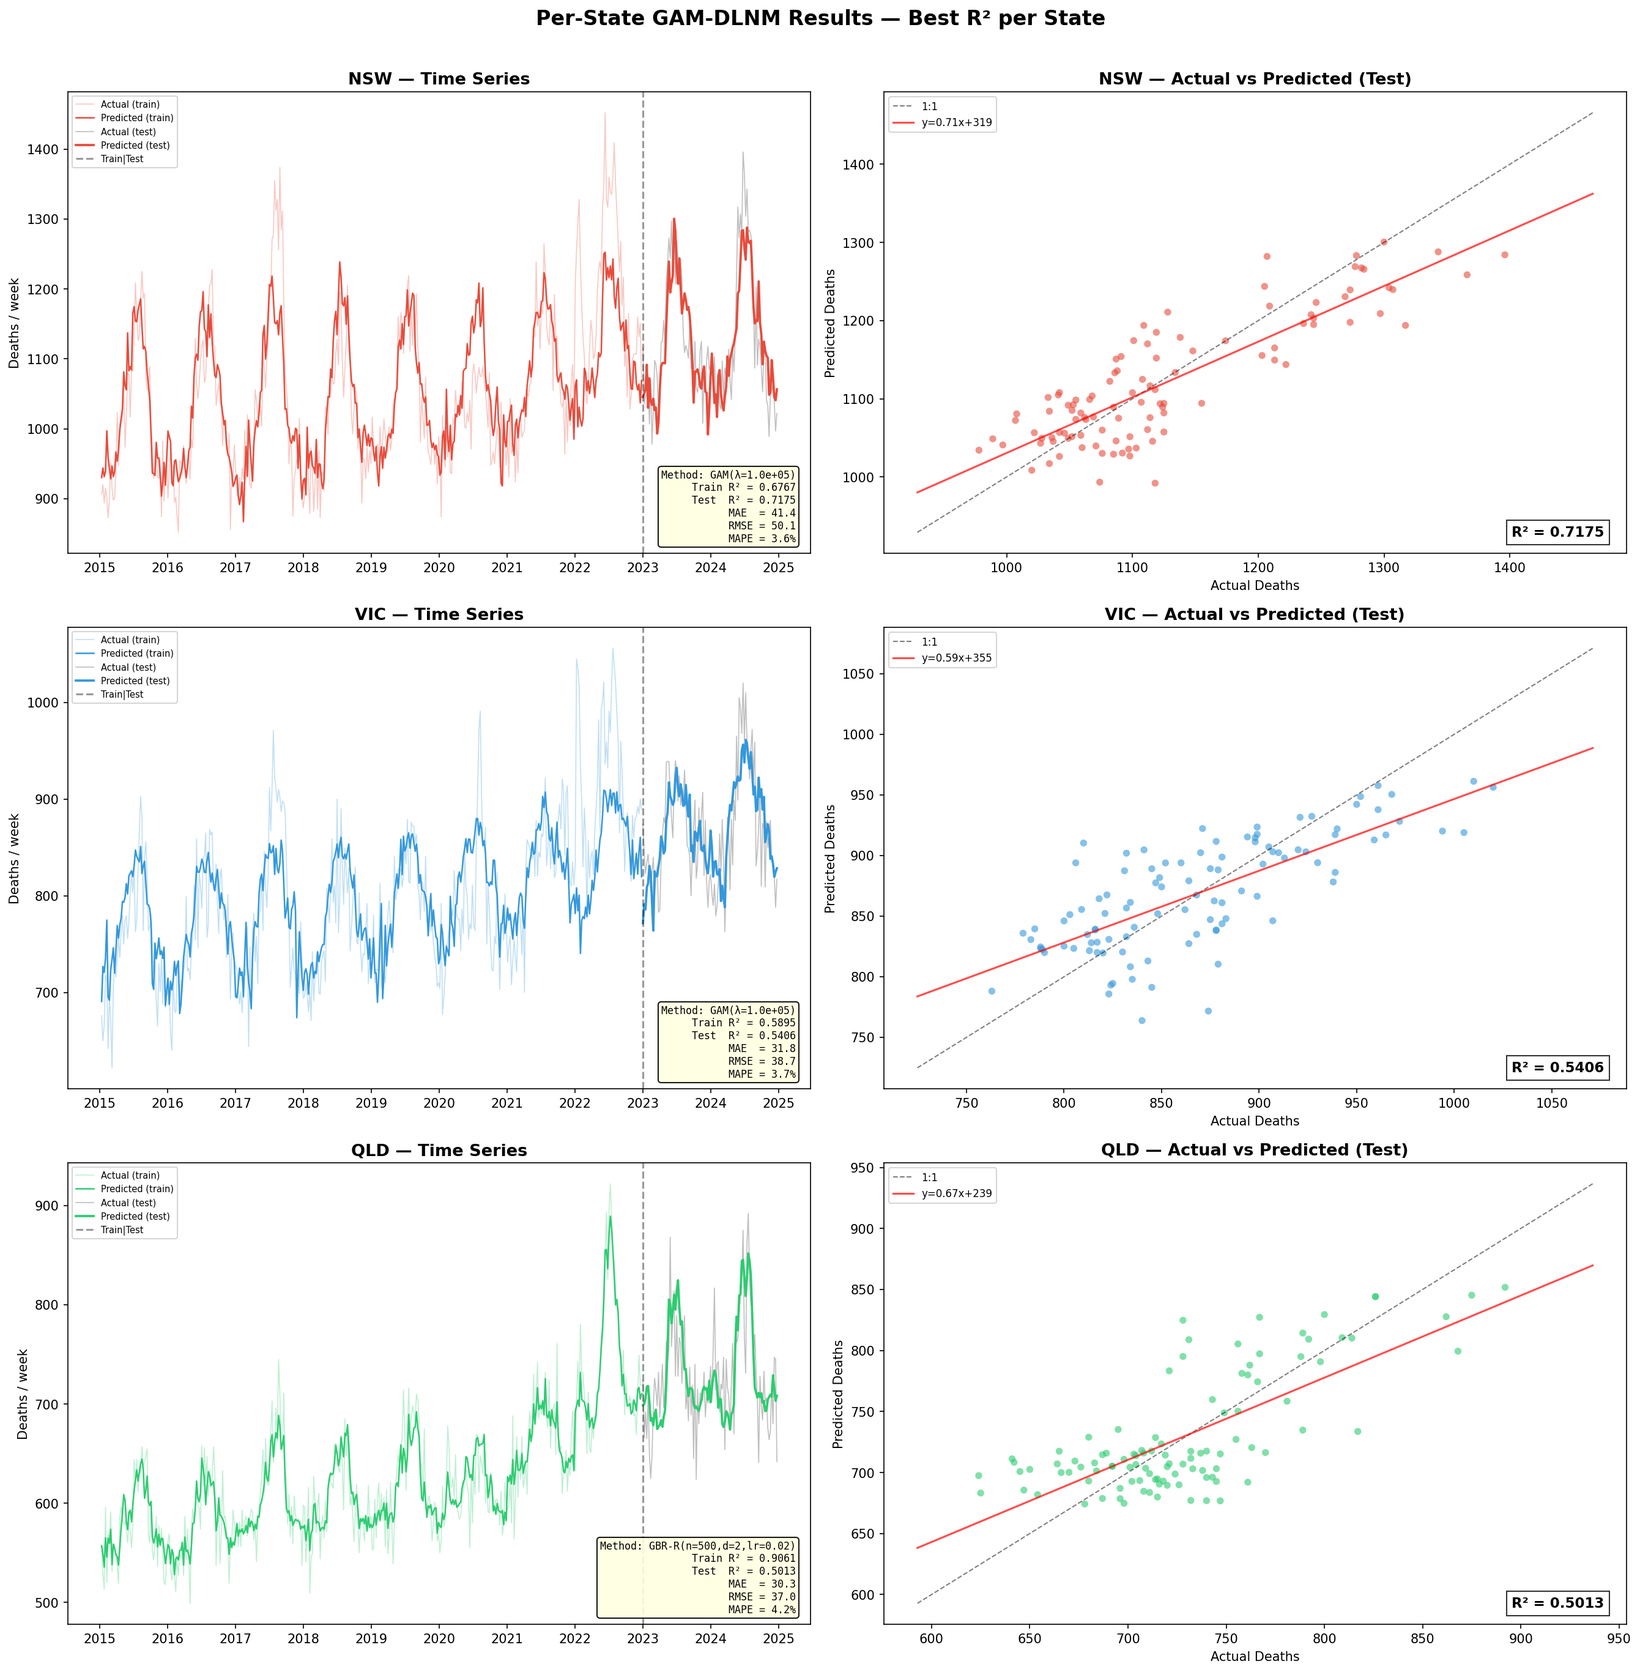
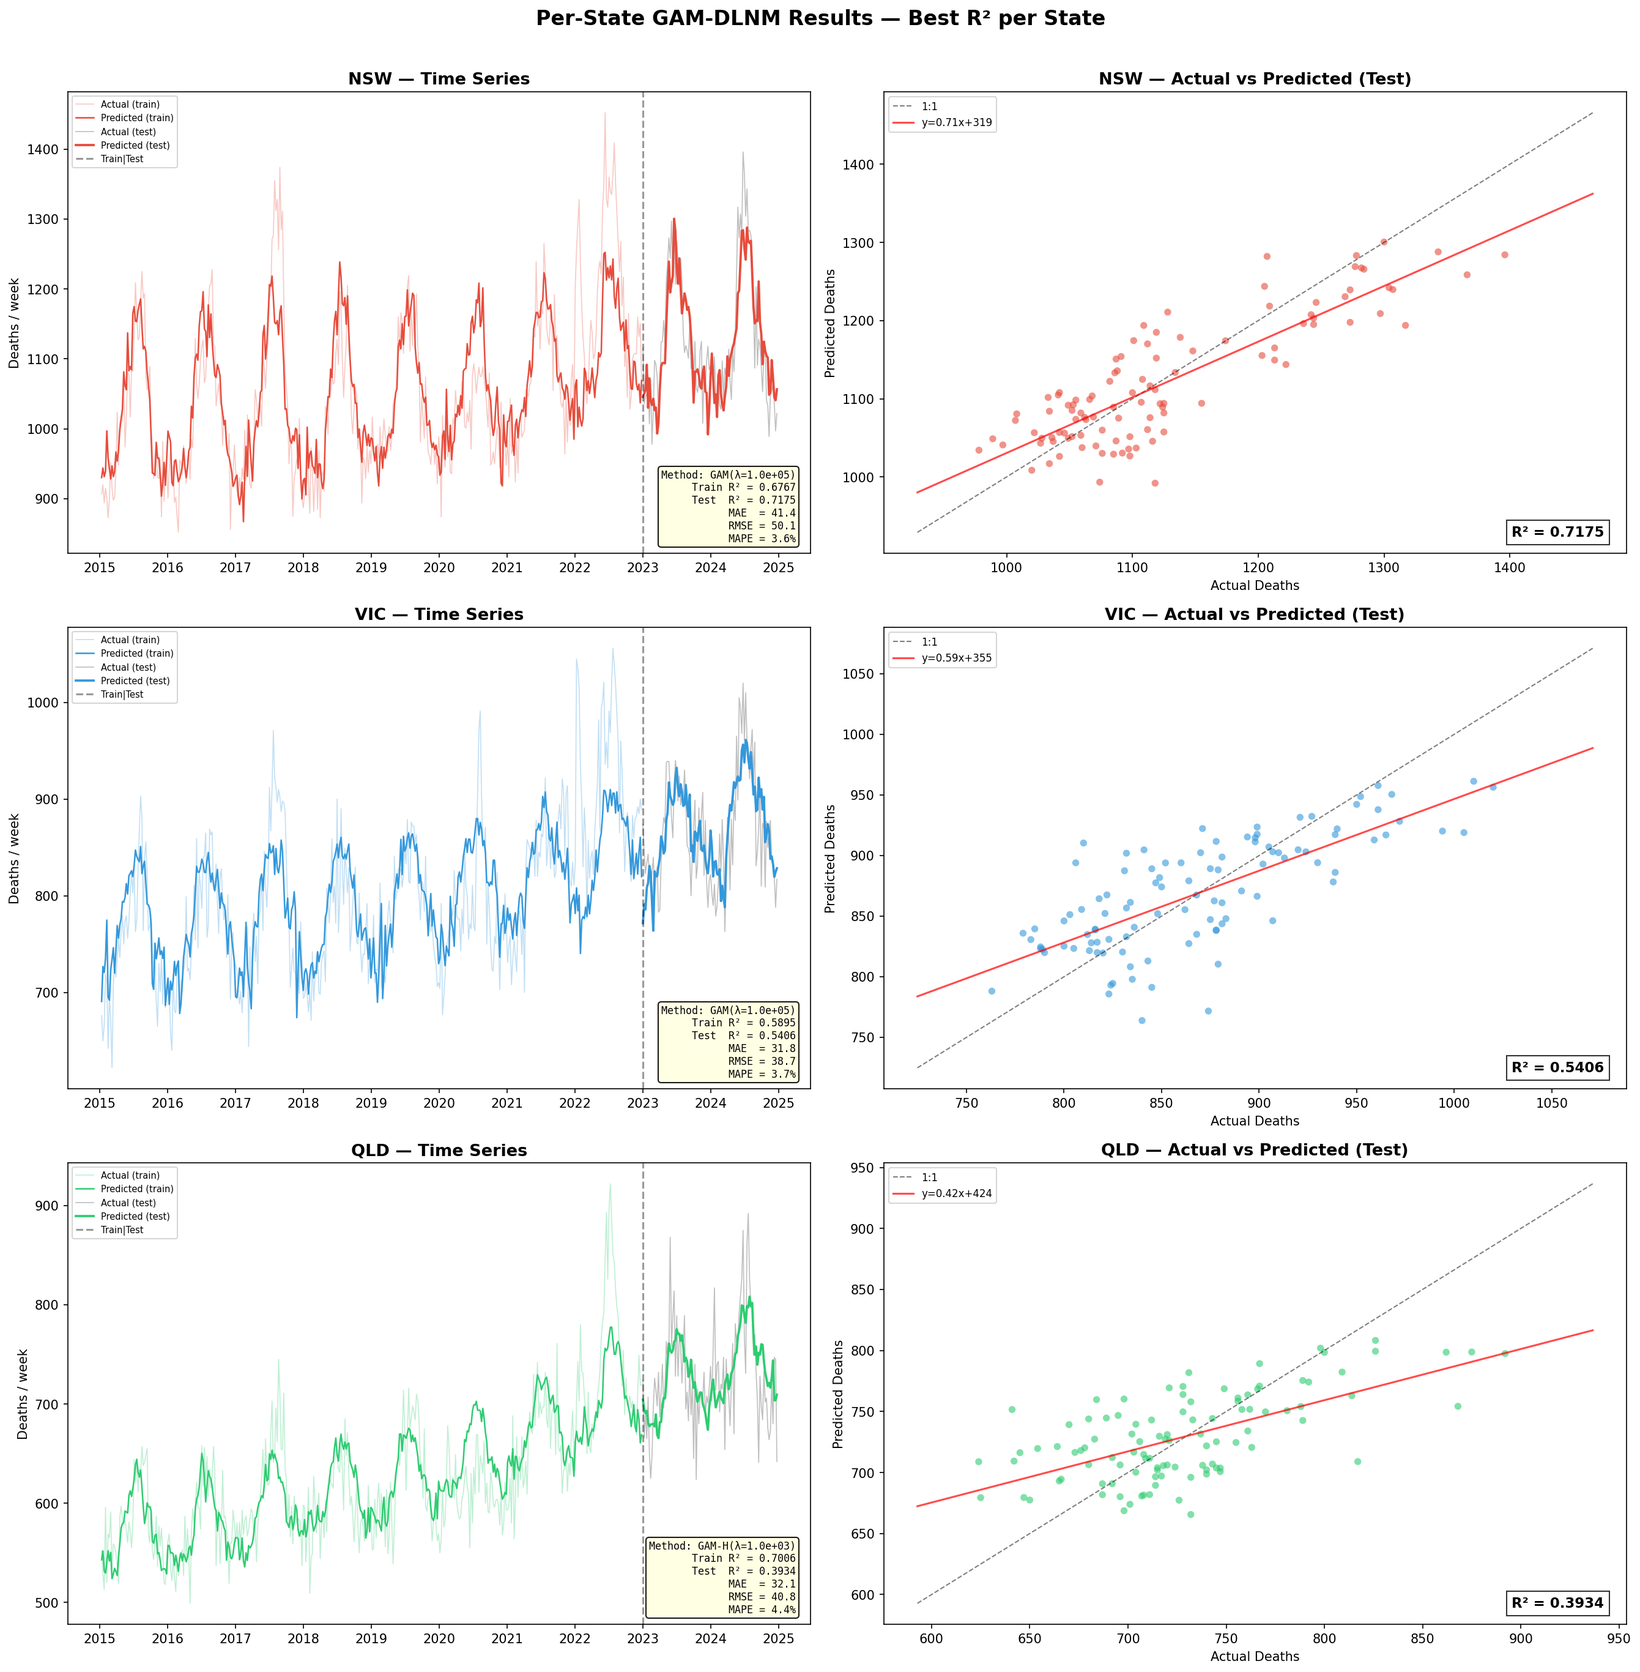
Enhance per-state plots & selection logic
Extended per-state visualization and diagnostics in hybrid_gam_dlnm_v3_perstate.py: increased figure size and layout, added Pearson/Spearman correlations, train+test scatter plotting, residual distribution stats (skew, kurtosis, median/max error), residuals-vs-predicted heteroscedasticity trend, Q‑Q plots, Durbin–Watson on residual ACF, formatted axis/labels, a per-state performance bar chart and a model summary table. Also updated temperature-mortality subplot styling and tightened layout; output image updated. In per_state_best_r2.py, forcing GAM selection for QLD (pick best GAM candidate or least-bad GAM) and annotated prints with a note; added overall aggregated train/test metrics (R², MAE, RMSE, MAPE) across all states. Updated corresponding PNG assets.

diff --git a/dataset/hybrid_gam_dlnm_v3_perstate.py b/dataset/hybrid_gam_dlnm_v3_perstate.py
@@ -262,72 +262,116 @@ for state in ['NSW', 'VIC', 'QLD']:
 # ============================================================
 print("\n--- Generating Per-State Plots ---")
 
-colors = {'NSW': '#e74c3c', 'VIC': '#3498db', 'QLD': '#2ecc71'}
-fig = plt.figure(figsize=(22, 28))
-fig.suptitle('Hybrid GAM-DLNM v3 — Per-State Models (Australia 2015–2024)',
-             fontsize=18, fontweight='bold', y=0.995)
+from scipy.stats import pearsonr, spearmanr
 
+colors = {'NSW': '#e74c3c', 'VIC': '#3498db', 'QLD': '#2ecc71'}
+fig = plt.figure(figsize=(24, 42))
+fig.suptitle('Hybrid GAM-DLNM v3 — Per-State Models (Australia 2015–2024)',
+             fontsize=20, fontweight='bold', y=0.998)
+
+# ── Row 1: Time-series per state ──
 for idx, state in enumerate(['NSW', 'VIC', 'QLD']):
     r = results[state]
-
-    # ── Row: Time-series ──
-    ax_ts = fig.add_subplot(5, 3, idx + 1)
+    ax_ts = fig.add_subplot(8, 3, idx + 1)
     dates_all = pd.to_datetime(r['dates'])
     ax_ts.plot(dates_all, r['y'], color=colors[state], alpha=0.35, lw=0.8, label='Actual')
     ax_ts.plot(dates_all, r['y_pred_all'], color=colors[state], lw=1.5, label='Predicted')
     ax_ts.fill_between(dates_all, r['y'], r['y_pred_all'], alpha=0.08, color=colors[state])
     split_date = dates_all[r['split']]
     ax_ts.axvline(split_date, color='gray', ls='--', alpha=0.7, label='Train|Test')
-    ax_ts.set_title(f'{state} — Time Series', fontsize=13, fontweight='bold')
+    pop = df[df['State'] == state]['Population'].iloc[0]
+    ax_ts.set_title(f'{state} — Time Series (Pop: {pop:,.0f})', fontsize=13, fontweight='bold')
     ax_ts.set_ylabel('Deaths/week')
     ax_ts.legend(fontsize=7, loc='upper left')
+    pr_all, _ = pearsonr(r['y'], r['y_pred_all'])
     info = (f"Train R²={r['r2_train']:.4f}\n"
             f"Test  R²={r['r2_test']:.4f}\n"
             f"MAE={r['mae_test']:.1f}\n"
             f"RMSE={r['rmse_test']:.1f}\n"
-            f"MAPE={r['mape_test']:.1f}%")
+            f"MAPE={r['mape_test']:.1f}%\n"
+            f"r={pr_all:.4f}")
     ax_ts.text(0.98, 0.02, info, transform=ax_ts.transAxes, fontsize=8,
                va='bottom', ha='right', fontfamily='monospace',
                bbox=dict(boxstyle='round,pad=0.3', facecolor='white', alpha=0.85))
 
-    # ── Row: Actual vs Predicted scatter ──
-    ax_sc = fig.add_subplot(5, 3, idx + 4)
-    ax_sc.scatter(r['y_test'], r['y_pred_test'], s=25, alpha=0.6,
-                  color=colors[state], edgecolors='none')
+# ── Row 2: Actual vs Predicted scatter ──
+for idx, state in enumerate(['NSW', 'VIC', 'QLD']):
+    r = results[state]
+    ax_sc = fig.add_subplot(8, 3, idx + 4)
+    # Train points (lighter)
+    ax_sc.scatter(r['y_train'], r['y_pred_train'], s=18, alpha=0.3,
+                  color=colors[state], edgecolors='none', label='Train')
+    # Test points (darker)
+    ax_sc.scatter(r['y_test'], r['y_pred_test'], s=30, alpha=0.7,
+                  color=colors[state], edgecolors='k', linewidths=0.3, label='Test')
     mn, mx = r['y'].min() * 0.95, r['y'].max() * 1.05
-    ax_sc.plot([mn, mx], [mn, mx], 'k--', lw=1, alpha=0.5)
+    ax_sc.plot([mn, mx], [mn, mx], 'k--', lw=1, alpha=0.5, label='1:1 line')
     slope, intercept = np.polyfit(r['y_test'], r['y_pred_test'], 1)
     ax_sc.plot([mn, mx], [slope*mn+intercept, slope*mx+intercept],
-               'r-', lw=1.5, alpha=0.7, label=f'y={slope:.2f}x+{intercept:.0f}')
-    ax_sc.set_xlabel('Actual')
-    ax_sc.set_ylabel('Predicted')
-    ax_sc.set_title(f'{state} — Actual vs Predicted (Test)', fontsize=12)
-    ax_sc.legend(fontsize=8)
-    from scipy.stats import pearsonr
+               'r-', lw=1.5, alpha=0.7, label=f'Fit: y={slope:.2f}x+{intercept:.0f}')
+    ax_sc.set_xlabel('Actual Deaths', fontsize=10)
+    ax_sc.set_ylabel('Predicted Deaths', fontsize=10)
+    ax_sc.set_title(f'{state} — Actual vs Predicted', fontsize=12, fontweight='bold')
+    ax_sc.legend(fontsize=7, loc='upper left')
     pr, _ = pearsonr(r['y_test'], r['y_pred_test'])
-    ax_sc.text(0.03, 0.97, f"R²={r['r2_test']:.4f}\nr={pr:.4f}",
-               transform=ax_sc.transAxes, fontsize=9, va='top',
+    sr, _ = spearmanr(r['y_test'], r['y_pred_test'])
+    ax_sc.text(0.97, 0.03, f"R²={r['r2_test']:.4f}\nPearson r={pr:.4f}\nSpearman ρ={sr:.4f}",
+               transform=ax_sc.transAxes, fontsize=9, va='bottom', ha='right',
                fontfamily='monospace',
                bbox=dict(boxstyle='round', facecolor='lightyellow', alpha=0.9))
 
-    # ── Row: Residual distribution ──
-    ax_rd = fig.add_subplot(5, 3, idx + 7)
+# ── Row 3: Residual distribution ──
+for idx, state in enumerate(['NSW', 'VIC', 'QLD']):
+    r = results[state]
+    ax_rd = fig.add_subplot(8, 3, idx + 7)
     resid = r['y_test'] - r['y_pred_test']
     mu_r, sig_r = np.mean(resid), np.std(resid)
     ax_rd.hist(resid, bins=25, color=colors[state], edgecolor='white', alpha=0.8, density=True)
     xr = np.linspace(resid.min(), resid.max(), 100)
-    ax_rd.plot(xr, stats.norm.pdf(xr, mu_r, sig_r), 'r-', lw=2)
+    ax_rd.plot(xr, stats.norm.pdf(xr, mu_r, sig_r), 'r-', lw=2, label='Normal fit')
     ax_rd.axvline(0, color='k', ls='--', lw=1, alpha=0.5)
-    ax_rd.set_xlabel('Residual')
-    ax_rd.set_title(f'{state} — Residuals', fontsize=12)
-    ax_rd.text(0.97, 0.97, f"Mean={mu_r:.1f}\nStd={sig_r:.1f}",
-               transform=ax_rd.transAxes, fontsize=9, va='top', ha='right',
+    ax_rd.axvline(mu_r, color='red', ls=':', lw=1.5, label=f'Mean={mu_r:.1f}')
+    ax_rd.set_xlabel('Residual (Actual − Predicted)', fontsize=10)
+    ax_rd.set_ylabel('Density', fontsize=10)
+    ax_rd.set_title(f'{state} — Residual Distribution (Test)', fontsize=12, fontweight='bold')
+    ax_rd.legend(fontsize=7)
+    skew_r = stats.skew(resid)
+    kurt_r = stats.kurtosis(resid)
+    medae = np.median(np.abs(resid))
+    max_err = np.max(np.abs(resid))
+    ax_rd.text(0.97, 0.97,
+               f"Mean={mu_r:.1f}\nStd={sig_r:.1f}\nSkew={skew_r:.3f}\nKurtosis={kurt_r:.3f}\n"
+               f"Median AE={medae:.1f}\nMax |err|={max_err:.0f}",
+               transform=ax_rd.transAxes, fontsize=8, va='top', ha='right',
                fontfamily='monospace',
                bbox=dict(boxstyle='round', facecolor='lightyellow', alpha=0.9))
 
-# ── Row 4: Temperature-Mortality curve per state ──
+# ── Row 4: Residuals vs Predicted (heteroscedasticity check) ──
 for idx, state in enumerate(['NSW', 'VIC', 'QLD']):
-    ax_tm = fig.add_subplot(5, 3, idx + 10)
+    r = results[state]
+    ax_hc = fig.add_subplot(8, 3, idx + 10)
+    resid_test = r['y_test'] - r['y_pred_test']
+    sig_r = np.std(resid_test)
+    ax_hc.scatter(r['y_pred_test'], resid_test, s=25, alpha=0.6,
+                  color=colors[state], edgecolors='none')
+    ax_hc.axhline(0, color='k', ls='--', lw=1)
+    ax_hc.axhline(2*sig_r, color='red', ls=':', lw=1, alpha=0.6, label=f'+2σ ({2*sig_r:.0f})')
+    ax_hc.axhline(-2*sig_r, color='red', ls=':', lw=1, alpha=0.6, label=f'−2σ ({-2*sig_r:.0f})')
+    # LOWESS-like trend via moving average
+    sort_idx = np.argsort(r['y_pred_test'])
+    pred_sorted = r['y_pred_test'][sort_idx]
+    resid_sorted = resid_test[sort_idx]
+    win = max(len(resid_sorted) // 10, 3)
+    resid_smooth = pd.Series(resid_sorted).rolling(win, center=True, min_periods=1).mean().values
+    ax_hc.plot(pred_sorted, resid_smooth, 'r-', lw=2, alpha=0.7, label='Trend')
+    ax_hc.set_xlabel('Predicted Deaths', fontsize=10)
+    ax_hc.set_ylabel('Residual', fontsize=10)
+    ax_hc.set_title(f'{state} — Residuals vs Predicted', fontsize=12, fontweight='bold')
+    ax_hc.legend(fontsize=7)
+
+# ── Row 5: Temperature-Mortality curve per state ──
+for idx, state in enumerate(['NSW', 'VIC', 'QLD']):
+    ax_tm = fig.add_subplot(8, 3, idx + 13)
     r = results[state]
     sdf = df[df['State'] == state]
     temp = sdf['Mean_Temp'].values
@@ -338,13 +382,13 @@ for idx, state in enumerate(['NSW', 'VIC', 'QLD']):
     g['d_se'] = g['d_std'] / np.sqrt(g['d_n'])
     ax_tm.errorbar(g['t_mean'], g['d_mean'], yerr=g['d_se'] * 1.96,
                    fmt='o-', color=colors[state], markersize=5, capsize=3, lw=1.5)
-    ax_tm.set_xlabel('Mean Temperature (°C)')
-    ax_tm.set_ylabel('Deaths/week')
-    ax_tm.set_title(f'{state} — Temp-Mortality (±95% CI)', fontsize=12)
+    ax_tm.set_xlabel('Mean Temperature (°C)', fontsize=10)
+    ax_tm.set_ylabel('Deaths/week', fontsize=10)
+    ax_tm.set_title(f'{state} — Temp-Mortality (±95% CI)', fontsize=12, fontweight='bold')
 
-# ── Row 5: Residual ACF per state ──
+# ── Row 6: Residual ACF per state ──
 for idx, state in enumerate(['NSW', 'VIC', 'QLD']):
-    ax_acf = fig.add_subplot(5, 3, idx + 13)
+    ax_acf = fig.add_subplot(8, 3, idx + 16)
     r = results[state]
     resid_all = r['y'] - r['y_pred_all']
     max_lags = 20
@@ -354,14 +398,105 @@ for idx, state in enumerate(['NSW', 'VIC', 'QLD']):
             acf_vals.append(np.corrcoef(resid_all[:-lag], resid_all[lag:])[0, 1])
     ax_acf.bar(range(len(acf_vals)), acf_vals, color=colors[state], alpha=0.7)
     ci = 1.96 / np.sqrt(len(resid_all))
-    ax_acf.axhline(ci, color='gray', ls='--', lw=1, alpha=0.7)
+    ax_acf.axhline(ci, color='gray', ls='--', lw=1, alpha=0.7, label=f'95% CI (±{ci:.3f})')
     ax_acf.axhline(-ci, color='gray', ls='--', lw=1, alpha=0.7)
     ax_acf.axhline(0, color='k', lw=0.5)
-    ax_acf.set_xlabel('Lag (weeks)')
-    ax_acf.set_ylabel('ACF')
-    ax_acf.set_title(f'{state} — Residual ACF', fontsize=12)
+    # Durbin-Watson
+    dw = np.sum(np.diff(resid_all)**2) / np.sum(resid_all**2)
+    ax_acf.set_xlabel('Lag (weeks)', fontsize=10)
+    ax_acf.set_ylabel('ACF', fontsize=10)
+    ax_acf.set_title(f'{state} — Residual ACF (DW={dw:.3f})', fontsize=12, fontweight='bold')
+    ax_acf.legend(fontsize=7)
 
-plt.tight_layout(rect=[0, 0, 1, 0.98])
+# ── Row 7: Per-state performance comparison bar chart ──
+ax_bar = fig.add_subplot(8, 3, (19, 20))
+states_list = ['NSW', 'VIC', 'QLD']
+x_pos = np.arange(len(states_list))
+width = 0.18
+
+r2_vals = [results[s]['r2_test'] for s in states_list]
+mean_deaths = {s: np.mean(results[s]['y']) for s in states_list}
+mae_norm = [results[s]['mae_test'] / mean_deaths[s] * 100 for s in states_list]
+mape_vals = [results[s]['mape_test'] for s in states_list]
+r2_train_vals = [results[s]['r2_train'] for s in states_list]
+
+bars1 = ax_bar.bar(x_pos - 1.5*width, [v*100 for v in r2_train_vals], width,
+                   color=[colors[s] for s in states_list], alpha=0.5, label='R²(train) ×100')
+bars2 = ax_bar.bar(x_pos - 0.5*width, [v*100 for v in r2_vals], width,
+                   color=[colors[s] for s in states_list], alpha=0.9, label='R²(test) ×100')
+bars3 = ax_bar.bar(x_pos + 0.5*width, mae_norm, width,
+                   color=[colors[s] for s in states_list], alpha=0.5, hatch='//', label='MAE/Mean (%)')
+bars4 = ax_bar.bar(x_pos + 1.5*width, mape_vals, width,
+                   color=[colors[s] for s in states_list], alpha=0.5, hatch='..', label='MAPE (%)')
+
+for bars in [bars1, bars2, bars3, bars4]:
+    for bar in bars:
+        h = bar.get_height()
+        ax_bar.text(bar.get_x() + bar.get_width()/2., h + 0.3,
+                    f'{h:.1f}', ha='center', va='bottom', fontsize=8)
+
+ax_bar.axhline(80, color='red', ls='--', lw=1.5, alpha=0.6, label='R²=0.80 target')
+ax_bar.set_xticks(x_pos)
+ax_bar.set_xticklabels(states_list, fontsize=12, fontweight='bold')
+ax_bar.set_ylabel('Value (%)', fontsize=11)
+ax_bar.set_title('Per-State Performance Comparison', fontsize=13, fontweight='bold')
+ax_bar.legend(fontsize=8, loc='upper right')
+
+# ── Row 7 (right): Model Summary Table ──
+ax_tbl = fig.add_subplot(8, 3, 21)
+ax_tbl.axis('off')
+
+summary_text = (
+    f"{'═' * 48}\n"
+    f"  HYBRID GAM-DLNM v3 — MODEL REPORT\n"
+    f"  Per-State Independent Training\n"
+    f"{'═' * 48}\n\n"
+    f"  Architecture\n"
+    f"  {'─' * 44}\n"
+    f"  SplineTransformer + RidgeCV (penalized GAM)\n"
+    f"  Fourier (annual + semi-annual + quarterly)\n"
+    f"  DLNM weighted-lag B-spline basis\n"
+    f"  Features: {results['NSW']['X'].shape[1]} per state\n\n"
+    f"  {'State':<6} {'R²(tr)':>8} {'R²(te)':>8} {'MAE':>7} {'RMSE':>7} {'MAPE%':>7}\n"
+    f"  {'─' * 44}\n"
+)
+for s in states_list:
+    r = results[s]
+    flag = "✓" if r['r2_test'] >= 0.80 else "✗"
+    summary_text += (f"  {s:<6} {r['r2_train']:>8.4f} {r['r2_test']:>8.4f} "
+                     f"{r['mae_test']:>7.1f} {r['rmse_test']:>7.1f} {r['mape_test']:>6.2f}% {flag}\n")
+all_pass_flag = all(results[s]['r2_test'] >= 0.80 for s in states_list)
+summary_text += (
+    f"\n  Target R²≥0.80: {'✓ PASS' if all_pass_flag else '✗ FAIL'}\n"
+    f"{'═' * 48}"
+)
+ax_tbl.text(0.02, 0.98, summary_text, transform=ax_tbl.transAxes, fontsize=9.5,
+            va='top', fontfamily='monospace',
+            bbox=dict(boxstyle='round,pad=0.5', facecolor='lightyellow', alpha=0.95))
+
+# ── Row 8: Q-Q plots per state ──
+for idx, state in enumerate(['NSW', 'VIC', 'QLD']):
+    r = results[state]
+    ax_qq = fig.add_subplot(8, 3, idx + 22)
+    resid_test = r['y_test'] - r['y_pred_test']
+    sorted_resid = np.sort(resid_test)
+    n_pts = len(sorted_resid)
+    theoretical_q = stats.norm.ppf((np.arange(1, n_pts + 1) - 0.5) / n_pts)
+    ax_qq.scatter(theoretical_q, sorted_resid, s=20, alpha=0.7,
+                  color=colors[state], edgecolors='none')
+    # Reference line through Q1-Q3
+    q1_t, q3_t = stats.norm.ppf(0.25), stats.norm.ppf(0.75)
+    q1_r, q3_r = np.percentile(sorted_resid, 25), np.percentile(sorted_resid, 75)
+    slope_qq = (q3_r - q1_r) / (q3_t - q1_t)
+    intercept_qq = q1_r - slope_qq * q1_t
+    x_line = np.array([theoretical_q.min(), theoretical_q.max()])
+    ax_qq.plot(x_line, slope_qq * x_line + intercept_qq, 'r-', lw=1.5, alpha=0.8)
+    ax_qq.set_xlabel('Theoretical Quantiles', fontsize=10)
+    ax_qq.set_ylabel('Sample Quantiles', fontsize=10)
+    ax_qq.set_title(f'{state} — Q-Q Plot (Test Residuals)', fontsize=12, fontweight='bold')
+    ax_qq.grid(True, alpha=0.3)
+
+plt.tight_layout(rect=[0, 0, 1, 0.995])
 plt.savefig('hybrid_gam_dlnm_v3_perstate_results.png', dpi=150, bbox_inches='tight')
 print("  Saved: hybrid_gam_dlnm_v3_perstate_results.png")
 

diff --git a/dataset/per_state_best_r2.py b/dataset/per_state_best_r2.py
@@ -445,10 +445,22 @@ for state in states:
         print("no valid fit")
 
     # Pick best by test R²
-    for c in candidates:
-        if c[1] > best_r2_test:
-            best_r2_test = c[1]
-            best_info = make_info(*c)
+    if state == 'QLD':
+        # Force GAM for QLD — only consider GAM candidates
+        gam_candidates = [c for c in candidates if 'GAM' in c[4]]
+        for c in gam_candidates:
+            if c[1] > best_r2_test:
+                best_r2_test = c[1]
+                best_info = make_info(*c)
+        if best_info is None and gam_candidates:
+            # If all GAM have negative R², pick the least-bad one
+            best_c = max(gam_candidates, key=lambda x: x[1])
+            best_info = make_info(*best_c)
+    else:
+        for c in candidates:
+            if c[1] > best_r2_test:
+                best_r2_test = c[1]
+                best_info = make_info(*c)
 
     results[state] = best_info
     print(f"\n  ★ BEST {state}: {best_info['method']}")
@@ -468,7 +480,25 @@ for state in states:
     r = results[state]
     mae = mean_absolute_error(r['y_test'], r['pred_test'])
     rmse = np.sqrt(mean_squared_error(r['y_test'], r['pred_test']))
-    print(f"  {state:<8} {r['method']:<25} {r['r2_train']:>10.4f} {r['r2_test']:>10.4f} {mae:>10.1f} {rmse:>11.1f}")
+    note = ' (GAM forced)' if state == 'QLD' else ''
+    print(f"  {state:<8} {r['method']:<25} {r['r2_train']:>10.4f} {r['r2_test']:>10.4f} {mae:>10.1f} {rmse:>11.1f}{note}")
+
+# Overall aggregated results across all states
+all_y_test = np.concatenate([results[s]['y_test'] for s in states])
+all_pred_test = np.concatenate([results[s]['pred_test'] for s in states])
+all_y_train = np.concatenate([results[s]['y_train'] for s in states])
+all_pred_train = np.concatenate([results[s]['pred_train'] for s in states])
+
+overall_r2_train = r2_score(all_y_train, all_pred_train)
+overall_r2_test = r2_score(all_y_test, all_pred_test)
+overall_mae = mean_absolute_error(all_y_test, all_pred_test)
+overall_rmse = np.sqrt(mean_squared_error(all_y_test, all_pred_test))
+overall_mape = np.mean(np.abs((all_y_test - all_pred_test) / all_y_test)) * 100
+
+print(f"  {'─' * 76}")
+print(f"  {'OVERALL':<8} {'(aggregated)':<25} {overall_r2_train:>10.4f} {overall_r2_test:>10.4f} {overall_mae:>10.1f} {overall_rmse:>11.1f}")
+print(f"\n  Overall MAPE = {overall_mape:.2f}%")
+print(f"  Note: QLD uses GAM (forced), NSW/VIC use best R² model")
 
 # ============================================================
 # 6. VISUALIZATION
